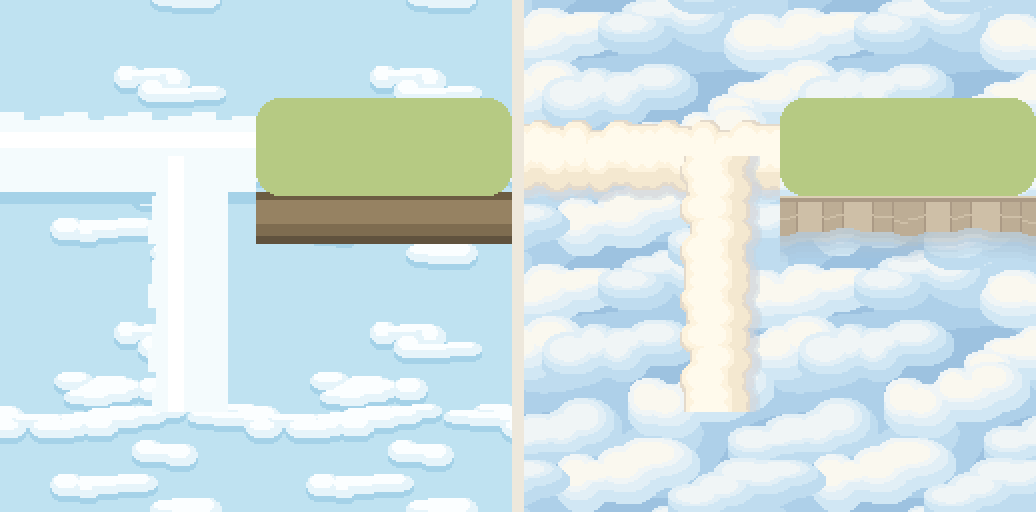
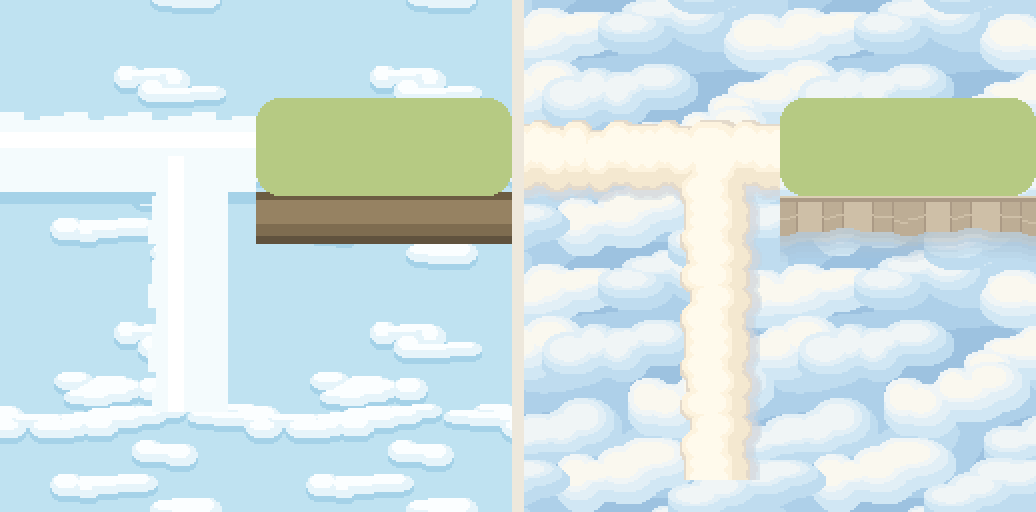
H-9 雲の橋の入隅を直しH-10 水のヌシ様を写す

Changed region(s): [[0.6486, 0.375, 0.7413, 0.9375], [0.6795, 0.2812, 0.7413, 0.375], [0.6795, 0.2188, 0.7104, 0.25]]

diff --git a/tools/art/handoff3d/water_turtle.py b/tools/art/handoff3d/water_turtle.py
@@ -1,0 +1,214 @@
+"""H-10 水のヌシ様 A案。マスを単位にした設計図。
+
+幅2.38、奥行き1.74の丸い石のこうらを腹で受ける。こうらの上を
+すり鉢形にくぼませ、半径0.67の池を入れる。石の板は縁でかみ合う。
+眠るときは手足と首をこうらに引っこめる。目を覚ますと首を右手前へ
+出して四本の足で支える。ハスは池底からまっすぐ伸ばす。夜明けには
+舟のように水に浮く姿にし、実際に上がる高さはゲームに任せる。
+"""
+
+import json
+from math import cos, pi, radians, sin
+from pathlib import Path
+import subprocess
+
+from PIL import Image, ImageDraw
+
+from night import O, bowl, render
+
+ROOT = Path(__file__).resolve().parents[3]
+OUT = ROOT/'handoff/files/H-10'
+BOUNDS = (-1.5, 1.96875, -1.75, 1)
+STONE = (181, 176, 151)
+MOSS = (151, 157, 100)
+SKIN = (155, 163, 117)
+CREAM = (226, 207, 158)
+STAGES = ('sleep', 'awake', 'dawn')
+
+
+def ellipsoid(scene, center, axes, color, detail=24):
+    start = len(scene.t)
+    scene.sphere(0,0,0,1,color,n=detail,m=detail//2)
+    for i in range(start,len(scene.t)):
+        a,b,c,color,pid = scene.t[i]
+        scene.t[i] = (a*axes+center,b*axes+center,c*axes+center,color,pid)
+
+
+def shell(scene):
+    profile = ((.55,.28),(.89,.30),(1.09,.40),(1.19,.57),
+               (1.16,.72),(1.06,.90),(.89,1.05),(.72,1.085),
+               (.64,1.02),(.62,.92),(0,.92))
+    moss_patches = ((-.73,-.35,1.01,.35),(-.29,-.60,.99,.25),
+                    (.57,-.46,.96,.31),(.91,.18,.82,.28),
+                    (-.83,.36,.76,.29),(.21,.49,.99,.22))
+
+    def patina(x,y,z):
+        for cx,cy,cz,r in moss_patches:
+            dist = ((x-cx)**2 + (y-cy)**2 + .9*(z-cz)**2)/r**2
+            edge = 1 + .18*cos(32*x+21*y) + .10*sin(38*y-10*z)
+            if dist < edge:
+                return MOSS
+        return None
+
+    def panel(j, i):
+        if j >= 8:
+            return (135,130,109)
+        span = (i + (3 if j < 4 else 0)) % 10
+        if span == 0 and 1 <= j <= 6:
+            return (146,143,121)
+        if j in (3, 6):
+            return (196,190,164)
+        return STONE
+
+    scene.decal(patina)
+    bowl(scene,0,0,profile,panel,.73,count=80)
+    scene.decal(None)
+    scene.material('flat')
+    bowl(scene,0,0,((0,.968),(.655,.968)),
+         lambda j,i: (105,161,174),.73,count=48)
+    scene.outline(0)
+    for x,y,rx,ry,col in ((-.12,-.13,.42,.09,(126,179,187)),
+                         (.22,.12,.31,.057,(119,173,183)),
+                         (-.29,.15,.21,.043,(137,187,190))):
+        bowl(scene,x,y,((0,.972),(rx,.972)),lambda j,i: col,ry/rx,count=32)
+    scene.outline(1)
+
+
+def limbs(scene, stage):
+    scene.material('soft1')
+    tucked = stage == 'sleep'
+    floating = stage == 'dawn'
+    body_z = .26
+    ellipsoid(scene,(0,0,body_z),(.91,.61,.22),(173,155,113))
+    if tucked:
+        return
+    for x in (-.70,.66):
+        for y in (-.42,.38):
+            step = .10 if y > 0 and not tucked else 0
+            z = .23 if floating else .18
+            ellipsoid(scene,(x+step,y,z),(.26,.22,.21),SKIN)
+            if not floating:
+                for j in (-1,0,1):
+                    ellipsoid(scene,(x+step+j*.082,y+.165,.105),(.043,.055,.056),CREAM,12)
+    position = (1.28,.35,.46 if floating else .40)
+    ellipsoid(scene,(.84,.24,.36),(.41,.21,.20),SKIN)
+    ellipsoid(scene,position,(.34,.25,.25),SKIN,32)
+    x,y,z = position
+    ellipsoid(scene,(x+.13,y+.09,z-.10),(.25,.203,.13),CREAM)
+    scene.material('flat')
+    scene.outline(0)
+    scene.tube([(x-.058,y+.248,z+.019),(x+.015,y+.259,z+.006),
+                (x+.078,y+.252,z+.019)],.009,(96,108,81))
+    eye = (122,105,73)
+    scene.tube([(x-.051,y+.252,z+.089),(x-.011,y+.261,z+.124),
+                (x+.041,y+.259,z+.102)],.017,eye)
+    scene.tube([(x-.074,y+.233,z+.132),(x-.025,y+.237,z+.151),
+                (x+.037,y+.234,z+.141)],.027,CREAM)
+    for dx in (.171,.229):
+        ellipsoid(scene,(x+dx,y+.202,z+.045),(.016,.011,.014),eye,12)
+    scene.outline(1)
+
+
+def pad(scene, x,y,z,r, color):
+    scene.part()
+    center = (x,y,z)
+    for i in range(26):
+        def edge(k):
+            a = .31+2*pi*k/28
+            return (x+r*cos(a), y+.80*r*sin(a),z+.012+.009*cos(2*a))
+        scene.tri(center,edge(i),edge(i+1),color)
+
+
+def lotus(scene, stage):
+    scene.material('flat')
+    if stage != 'dawn':
+        pad(scene,.31,.12,.981,.15,(161,143,103))
+        pad(scene,-.28,-.12,.981,.18,(173,152,107))
+        scene.tube([(-.22,-.13,.970),(-.22,-.13,1.21),(-.27,-.13,1.30)],
+                   .019,(143,125,83))
+        pad(scene,-.31,-.13,1.286,.09,(159,131,91))
+        return
+    pad(scene,-.39,.14,.979,.17,(137,164,104))
+    pad(scene,.30,.15,.980,.17,(157,182,111))
+    pad(scene,.35,-.15,.981,.12,(135,162,107))
+    for x,y,height,r in ((-.16,-.12,1.33,.18),(.26,.07,1.17,.105)):
+        scene.tube([(x,y,.974),(x,y,height)],.017,(129,156,98))
+        scene.part()
+        for ring in (0,1):
+            for i in range(7):
+                a = 2*pi*(i+ring*.5)/7
+                reach = r*(1-.32*ring)
+                rise = r*(.55+.27*ring)
+
+                def at(u,v,z):
+                    return (x+reach*(u*cos(a)-v*sin(a)),
+                            y+reach*(u*sin(a)+v*cos(a)),height+z)
+
+                root = at(0,0,0)
+                ridge = at(.51,0,rise*.38)
+                tip = at(1,0,rise)
+                left = at(.56,-.31,rise*.31)
+                right = at(.56,.31,rise*.32)
+                scene.quad(root,left,tip,ridge,(240,161,190))
+                scene.quad(root,ridge,tip,right,(250,188,207))
+        ellipsoid(scene,(x,y,height+.028),(.048,.048,.032),(255,220,144),16)
+
+
+def capture_old():
+    code = (ROOT/'js/mizube-story.js').read_text()
+    fn = code[code.index('function mzOval'):code.index('function mzKanadePos')]
+    source = """
+    const S={ground:[0],flags:{},mz:{}}, MZV={};
+    let ops=[];
+    const ctx={save(){},restore(){},fillRect(x,y,w,h){ops.push([x,y,w,h,this.fillStyle])}};
+    """ + fn + """
+    const drawings=[];
+    for (let i=0;i<3;i++){
+        S.flags={mzKame:i>0,mzDawn:i===2};
+        ops=[];
+        mzKameDraw(ctx,0,0,0,0);
+        drawings.push(ops);
+    }
+    console.log(JSON.stringify(drawings));
+    """
+    return json.loads(subprocess.check_output(['node','-'],input=source,text=True))
+
+
+def main():
+    OUT.mkdir(parents=True,exist_ok=True)
+    O.S = 64
+    O.SMCREASE = cos(radians(80))
+    old = capture_old()
+    for i, stage in enumerate(STAGES):
+        scene = O.Scene()
+        scene.material('soft1')
+        scene.smooth(True)
+        limbs(scene,stage)
+        shell(scene)
+        lotus(scene,stage)
+        image = render(scene,BOUNDS)
+        assert image.getchannel('A').getextrema() == (0,255)
+        w,h = image.size
+        l,t,r,b = image.getbbox()
+        assert 0 < l < r < w and 0 < t < b < h, (stage,image.getbbox())
+        image.save(OUT/f'mzkame_{stage}.png')
+        if i == 0:
+            sheet = Image.new('RGB',(w*4+20,h*6),'#839bac')
+        previous = Image.new('RGBA',image.size)
+        draw = ImageDraw.Draw(previous)
+        for x,y,a,b,col in old[i]:
+            px,py = 96+(x-16)*2,112+(y-18)*2
+            draw.rectangle((px,py,px+a*2-1,py+b*2-1),fill=col)
+        for x, frame in ((0,previous),(w*2+20,image)):
+            scaled = frame.resize((w*2,h*2),Image.Resampling.NEAREST)
+            sheet.paste(scaled,(x,i*h*2),scaled)
+        ImageDraw.Draw(sheet).text((5,i*h*2+4),stage,fill='white')
+        if stage == 'dawn':
+            zoom = image.crop(image.getbbox())
+            zoom.resize((zoom.width*10,zoom.height*10),Image.Resampling.NEAREST).save(
+                OUT/'mzkame_dawn_x10.png')
+    sheet.save(OUT/'mzkame_cmp_x2.png')
+
+
+if __name__ == '__main__':
+    main()

diff --git a/tools/art/handoff3d/clouds.py b/tools/art/handoff3d/clouds.py
@@ -61,7 +61,7 @@ def sea():
     return Image.fromarray(np.array(SEA,dtype=np.uint8)[col])
 
 
-def bridge(vertical):
+def bridge_fields(vertical):
     x, y = grid(64,64)
     along, across = (y,x) if vertical else (x,y)
     middle = 32 if vertical else 30
@@ -78,11 +78,34 @@ def bridge(vertical):
     glow = np.maximum.reduce([
         ellipse(along,across,s-2,c-4,l-2,r-5,64) for s,c,l,r in puffs
     ])
+    return np.stack((body, shadow, glow))
+
+
+def bridge_pixels(fields):
+    body, shadow, glow = fields
     rgb = np.zeros((64,64,4), dtype=np.uint8)
     for mask, index, alpha in ((shadow>0,0,112),(shadow>.18,1,190),(body>0,2,255),
                                (body>.21,3,255),(glow>0,4,255),(glow>.42,5,255)):
         rgb[mask] = (*CREAM[index], alpha)
     return Image.fromarray(rgb)
+
+
+BRIDGE_MASKS = (5, 6, 7, 9, 10, 11, 13, 14, 15)
+
+
+def junction(mask, horizontal, vertical):
+    x, y = grid(64, 64)
+    inner = np.stack((
+        ellipse(x, y, 32, 30, 19, 19),
+        ellipse(x, y, 35, 34, 20, 20),
+        ellipse(x, y, 29, 26, 15, 14),
+    ))
+    # One surface and one contour, so the arm shadows never cross the bend.
+    for bit, side, fields in ((1, x <= 32, horizontal), (2, x >= 32, horizontal),
+                              (4, y <= 30, vertical), (8, y >= 30, vertical)):
+        if mask & bit:
+            inner = np.where(side, np.maximum(inner, fields), inner)
+    return bridge_pixels(inner)
 
 
 def cliff():
@@ -145,7 +168,7 @@ def captured_rects(ops, size):
     return image
 
 
-def assembled(tile, wall, horizontal, vertical):
+def assembled(tile, wall, horizontal, vertical, corner=None):
     image = Image.new('RGBA',(256,256))
     for y in (0,128):
         for x in (0,128):
@@ -155,16 +178,20 @@ def assembled(tile, wall, horizontal, vertical):
     d = ImageDraw.Draw(image)
     d.rounded_rectangle((128,49,255,97),radius=12,fill='#b6ca83')
     d.rectangle((140,74,248,96),fill='#b6ca83')
-    for x in (0,64):
-        image.alpha_composite(horizontal,(x,48))
-    for y in (78,142):
+    image.alpha_composite(horizontal,(0,48))
+    image.alpha_composite(horizontal if corner is None else corner,(64,48))
+    for y in ((78,142) if corner is None else (112,176)):
         image.alpha_composite(vertical,(64,y))
     return image
 
 
 def main():
     tile, wall = sea(), cliff()
-    horizontal, vertical = bridge(False), bridge(True)
+    h_fields, v_fields = bridge_fields(False), bridge_fields(True)
+    horizontal, vertical = bridge_pixels(h_fields), bridge_pixels(v_fields)
+    corners = {mask: junction(mask,h_fields,v_fields) for mask in BRIDGE_MASKS}
+    for mask, tile_image in corners.items():
+        tile_image.save(OUT/f'skybridge_m{mask}.png')
     for name,image in (('skysea',tile),('skycliff',wall),
                        ('skybridge_h',horizontal),('skybridge_v',vertical)):
         image.save(OUT/f'{name}.png')
@@ -179,7 +206,7 @@ def main():
         draw.rectangle((0,y*2,63,y*2+1),fill=tuple(old['face'][index]))
     sheet = Image.new('RGB',(1036,512),'#eee8dc')
     for i, parts in enumerate(((old_sea,old_wall,old_h,old_v),
-                               (tile,wall,horizontal,vertical))):
+                               (tile,wall,horizontal,vertical,corners[11]))):
         sheet.paste(assembled(*parts).resize((512,512),Image.Resampling.NEAREST),(i*524,0))
     sheet.save(OUT/'cmp_x2.png')
     seam = Image.new('RGB',(256,256))
@@ -187,8 +214,19 @@ def main():
         for x in (0,128):
             seam.paste(tile,(x,y))
     seam.resize((512,512),Image.Resampling.NEAREST).save(OUT/'skysea_2x2.png')
-    assembled(tile,wall,horizontal,vertical).resize((768,768),Image.Resampling.NEAREST).save(
+    assembled(tile,wall,horizontal,vertical,corners[11]).resize((768,768),Image.Resampling.NEAREST).save(
         OUT/'connections_x3.png')
+    joins = Image.new('RGBA',(192*3,192*3))
+    for i, (mask, center) in enumerate(corners.items()):
+        sample = Image.new('RGBA',(192,192), '#bddbef')
+        sample.alpha_composite(center,(64,64))
+        for bit, at, arm in ((1,(0,64),horizontal),(2,(128,64),horizontal),
+                             (4,(64,0),vertical),(8,(64,128),vertical)):
+            if mask & bit:
+                sample.alpha_composite(arm,at)
+        ImageDraw.Draw(sample).text((4,4),f'm{mask}',fill='#4a4e65')
+        joins.paste(sample,(i%3*192,i//3*192))
+    joins.save(OUT/'bridge_junctions.png')
 
 
 if __name__ == '__main__':

diff --git a/handoff/from-gpt.md b/handoff/from-gpt.md
@@ -25,12 +25,16 @@
 - 選んだA案。空色と白の雲の海、霧へ沈む砂灰色のがけ、クリーム色の雲の橋を作った。風のすじはゲームで重ねる。
 - `skysea.png` は128×128、上下左右につなぐ。色数7で全体が不透明。 `skycliff.png` は64×36、横につなぐ。画像の上から2ドットの所を、島の手前のふちに合わせる。霧は5段階の不透明度で雲の海に重なる。
 - `skybridge_h.png` と `skybridge_v.png` は64×64で1マス分。そのまま同じ向きにつなぐ。橋のふちの影だけ半透明。
+- 曲がり角・T字・十字は `skybridge_m<数字>.png`。左1・右2・上4・下8の合計で選ぶ。1枚の雲として写し、内角に重ね合わせの影が出ないようにした。開いている全辺の端の列は、同じ側の直線タイルの端の列と1ドットずつ一致し、閉じた辺は透明。 [9種のつなぎ方](files/H-9/bridge_junctions.png)
 - 海を2×2枚、がけと橋を同じ向きに並べて、境目を目でたしかめた。継ぎ目をまたぐ色・透明度の差の合計は、どの絵も中での最大の差より小さかった。ゲームのマップでの表示は未確認。
 - [仮の絵との比較](files/H-9/cmp_x2.png) ・ [海を2×2枚つないだ絵](files/H-9/skysea_2x2.png) ・ [がけと橋をつないだ絵](files/H-9/connections_x3.png)。つくりなおしは `python3 tools/art/handoff3d/clouds.py`。
 
 ### H-10 水のヌシ様とカナデ
 
-- [画像生成したデザイン案](files/H-10/design-options.png)。上段は水のヌシ様。**A** 苔のある丸い石のこうら、**B** 白い石のこうら、**C** 平たい灰色と茶色のこうら。下段はカナデ。**A** 丸いしずくの頭巾、**B** とがった頭巾と花びらのようなすそ、**C** 波形の頭巾とケープ。えらんだ形をもとに組む。
+- 選んだA案。丸い石のこうらに苔と池をのせた。眠りは首と手足を引っこめてかれたハス、目覚めは右手前に顔を出した姿、夜明けは浮いた姿で2輪のピンクのハス。こうらを水平にし、ハスはまっすぐ伸ばした。
+- `mzkame_sleep.png`、`mzkame_awake.png`、`mzkame_dawn.png`。共通で222×176、1マス64ドット。画像左上から (96,112) の点を、置くマスの左上からゲームの点で (16,18) の所に合わせる。しずんでいるときの薄さと、浮き上がる高さはゲームでつける。
+- 数字の結果。3枚の端の切れと半透明は0。色数31〜40、にた色2〜16組、輪郭が2ドット以上の所2〜57、孤立ドット54〜86。色数・輪郭・孤立ドットは目安を超えた。ゲームのマップでは未確認。
+- カナデは既存の水のせいれいを色替えして使う。 [仮の絵との比較](files/H-10/mzkame_cmp_x2.png) ・ [夜明けの10倍](files/H-10/mzkame_dawn_x10.png)。つくりなおしは `python3 tools/art/handoff3d/water_turtle.py`。
 
 <!--
 書き方（GPT が書く）：
